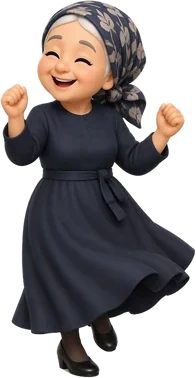
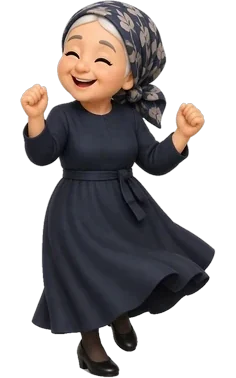
v125: children and grandparents turn around for real and walk sideways when changing places (side/back views from Gemini)
Claude-Session: https://claude.ai/code/session_01ABvEC9i7oWek9Z9TUcU2qQ

diff --git a/index.html b/index.html
@@ -1060,7 +1060,7 @@ let localStream=null, videoEnabled=false, micEnabled=true;
 const SB_URL='https://cdgqodtbdhsqkvcgcdlm.supabase.co';
 const SB_KEY='sb_publishable_B4HOCQF3IxN_6Ojz1_ctnA_k6JEAR4g';
 const FAM_COLORS=['#f5c842','#3d7aed','#34d399','#f87171','#c084fc','#fb923c','#22d3ee','#f472b6'];
-const APP_VERSION='v124';
+const APP_VERSION='v125';
 document.getElementById('appVersion').textContent=APP_VERSION;
 document.querySelectorAll('.copy-year').forEach(e=>e.textContent=new Date().getFullYear());
 
@@ -3243,6 +3243,9 @@ function danceUI(){const b=document.getElementById('tuneDance');if(b)b.classList
 // ── 🕺 the dancers: the Hasid from the start; the children join when the singing gets going; then the grandparents.
 //    Each moves with the beat in its own way — sways, steps, hops, turns — and the pairs change places every few bars.
 const GUY_POSES=['pose1','pose2','pose3','side','back'].map(n=>{const im=new Image();im.src='hasid_'+n+'.webp';return im});   // (loaded ahead — no flicker)
+const VIEWS={};for(const [k,n] of [['boy','boy'],['girl','girl'],['gpa','grandpa'],['gma','grandma']]){VIEWS[k]={};
+    for(const v of ['front','side','back']){const im=new Image();im.src='dancer_'+n+(v==='front'?'':'_'+v)+'.webp';VIEWS[k][v]=im}}
+const TURNS={boy:{at:2,beats:1},girl:{at:6,beats:1},gpa:{at:9,beats:2},gma:{at:12,beats:2}};    // when each one turns around (in a 16-beat round)
 (function dancersLoop(){
     const F={guy:{id:'danceGuy',h:240,side:-1},boy:{id:'danceBoy',h:150*419/420,side:-1},girl:{id:'danceGirl',h:150*399/420,side:-1},
              gpa:{id:'danceGpa',h:225*417/420,side:1},gma:{id:'danceGma',h:225*378/420,side:1}};
@@ -3286,13 +3289,22 @@ const GUY_POSES=['pose1','pose2','pose3','side','back'].map(n=>{const im=new Ima
                 const knee=pose!==3&&pose!==5;
                 y=knee?-H*.07*Math.sin(ph*Math.PI):-H*.015*Math.sin(ph*Math.PI);   // a little lift on the knee steps
                 rot=(pose===1?-3:pose===2?3:0)*Math.sin(ph*Math.PI);x+=H*.04*Math.sin(two*2*Math.PI);
-            }else if(k==='boy'||k==='girl'){                               // hop on every beat, leaning to opposite sides; the girl's skirt twirls
-                const s=(k==='boy'?1:-1)*(n%2?1:-1);
-                y=-H*(walking?.06:.1)*Math.sin(ph*Math.PI);rot=6*s*Math.sin(ph*Math.PI);
-                sx=walking?f.face:(k==='boy'?1:-1)*((Math.floor(n/4)%2)?-1:1);
-            }else{                                                         // the grandparents: a gentle sway and bob, a twirl now and then
-                rot=(k==='gpa'?4:-4)*Math.sin(two*2*Math.PI);y=-H*.035*Math.sin(ph*Math.PI);
-                sx=walking?f.face:(k==='gpa'?1:-1);
+            }else{
+                // a real turn now and then (front → side → back → other side → front), each at its own time;
+                // walking over to the new place — seen from the side, facing where they go
+                const T=TURNS[k],b16=((n%16)+16)%16,span=T.beats;let view='front',vsx=0;
+                const into=b16-T.at;if(into>=0&&into<span){const q=Math.min(3,Math.floor((into+ph)/span*4));view=['side','back','side','front'][q];if(q===2)vsx=-1}
+                else if(walking){view='side';vsx=-f.face}
+                if(k==='boy'||k==='girl'){                                 // hop on every beat, leaning to opposite sides
+                    const s=(k==='boy'?1:-1)*(n%2?1:-1);
+                    y=-H*(walking?.06:.1)*Math.sin(ph*Math.PI);rot=6*s*Math.sin(ph*Math.PI);
+                    sx=(k==='boy'?1:-1)*((Math.floor(n/4)%2)?-1:1);
+                }else{                                                     // the grandparents: a gentle sway and bob
+                    rot=(k==='gpa'?4:-4)*Math.sin(two*2*Math.PI);y=-H*.035*Math.sin(ph*Math.PI);
+                    sx=k==='gpa'?1:-1;
+                }
+                if(view!=='front'){sx=vsx||1;rot*=.5}
+                if(f.view!==view){f.view=view;f.el.src=VIEWS[k][view].src}
             }
             f.el.style.transform=`translateX(calc(-50% + ${x.toFixed(1)}px)) translateY(${y.toFixed(1)}px) rotate(${rot.toFixed(2)}deg) scale(${sx.toFixed(3)},${sy.toFixed(3)})`;
         }

diff --git a/sw.js b/sw.js
@@ -10,7 +10,7 @@
  * When changing this file, bump CACHE so old caches are cleaned up.
  */
 
-const CACHE = 'dreidel-v124';
+const CACHE = 'dreidel-v125';
 const FALLBACK = './index.html';
 // Each picture is listed once, as .webp. The .png / .jpg twins exist only for a browser that cannot
 // show webp; precaching both made every install download the pictures twice (about 1.2 MB extra).
@@ -19,7 +19,7 @@ const STATIC = [
   './index.html', './manifest.json', './icon-192.png', './icon-512.png', './apple-touch-icon.png',
   './dreidel.webp', './d3-face.webp', './d3-tip.webp', './d3-handle.webp', './bg-table.webp',
   './bg-table-portrait.webp', './coin.webp', './pile.webp', './trivia.json',
-  './dancer.webp', './dancer_big.webp', './hasid_pose1.webp', './hasid_pose2.webp', './hasid_pose3.webp', './hasid_side.webp', './hasid_back.webp', './dancer_boy.webp', './dancer_girl.webp', './dancer_grandpa.webp', './dancer_grandma.webp', './bg-table-nod.webp', './bg-table-portrait-nod.webp', './dancers_old.webp', './cstack1.webp', './cstack2.webp', './cstack3.webp', './cstack4.webp', './cstack5.webp', './cstack6.webp', './cstack7.webp', './cstack8.webp', './cstack9.webp', './cstack10.webp', './cstack11.webp', './cstack12.webp',
+  './dancer.webp', './dancer_big.webp', './hasid_pose1.webp', './hasid_pose2.webp', './hasid_pose3.webp', './hasid_side.webp', './hasid_back.webp', './dancer_boy.webp', './dancer_boy_side.webp', './dancer_boy_back.webp', './dancer_girl_side.webp', './dancer_girl_back.webp', './dancer_grandpa_side.webp', './dancer_grandpa_back.webp', './dancer_grandma_side.webp', './dancer_grandma_back.webp', './dancer_girl.webp', './dancer_grandpa.webp', './dancer_grandma.webp', './bg-table-nod.webp', './bg-table-portrait-nod.webp', './dancers_old.webp', './cstack1.webp', './cstack2.webp', './cstack3.webp', './cstack4.webp', './cstack5.webp', './cstack6.webp', './cstack7.webp', './cstack8.webp', './cstack9.webp', './cstack10.webp', './cstack11.webp', './cstack12.webp',
   './trivia-editor.html'
 ];
 
